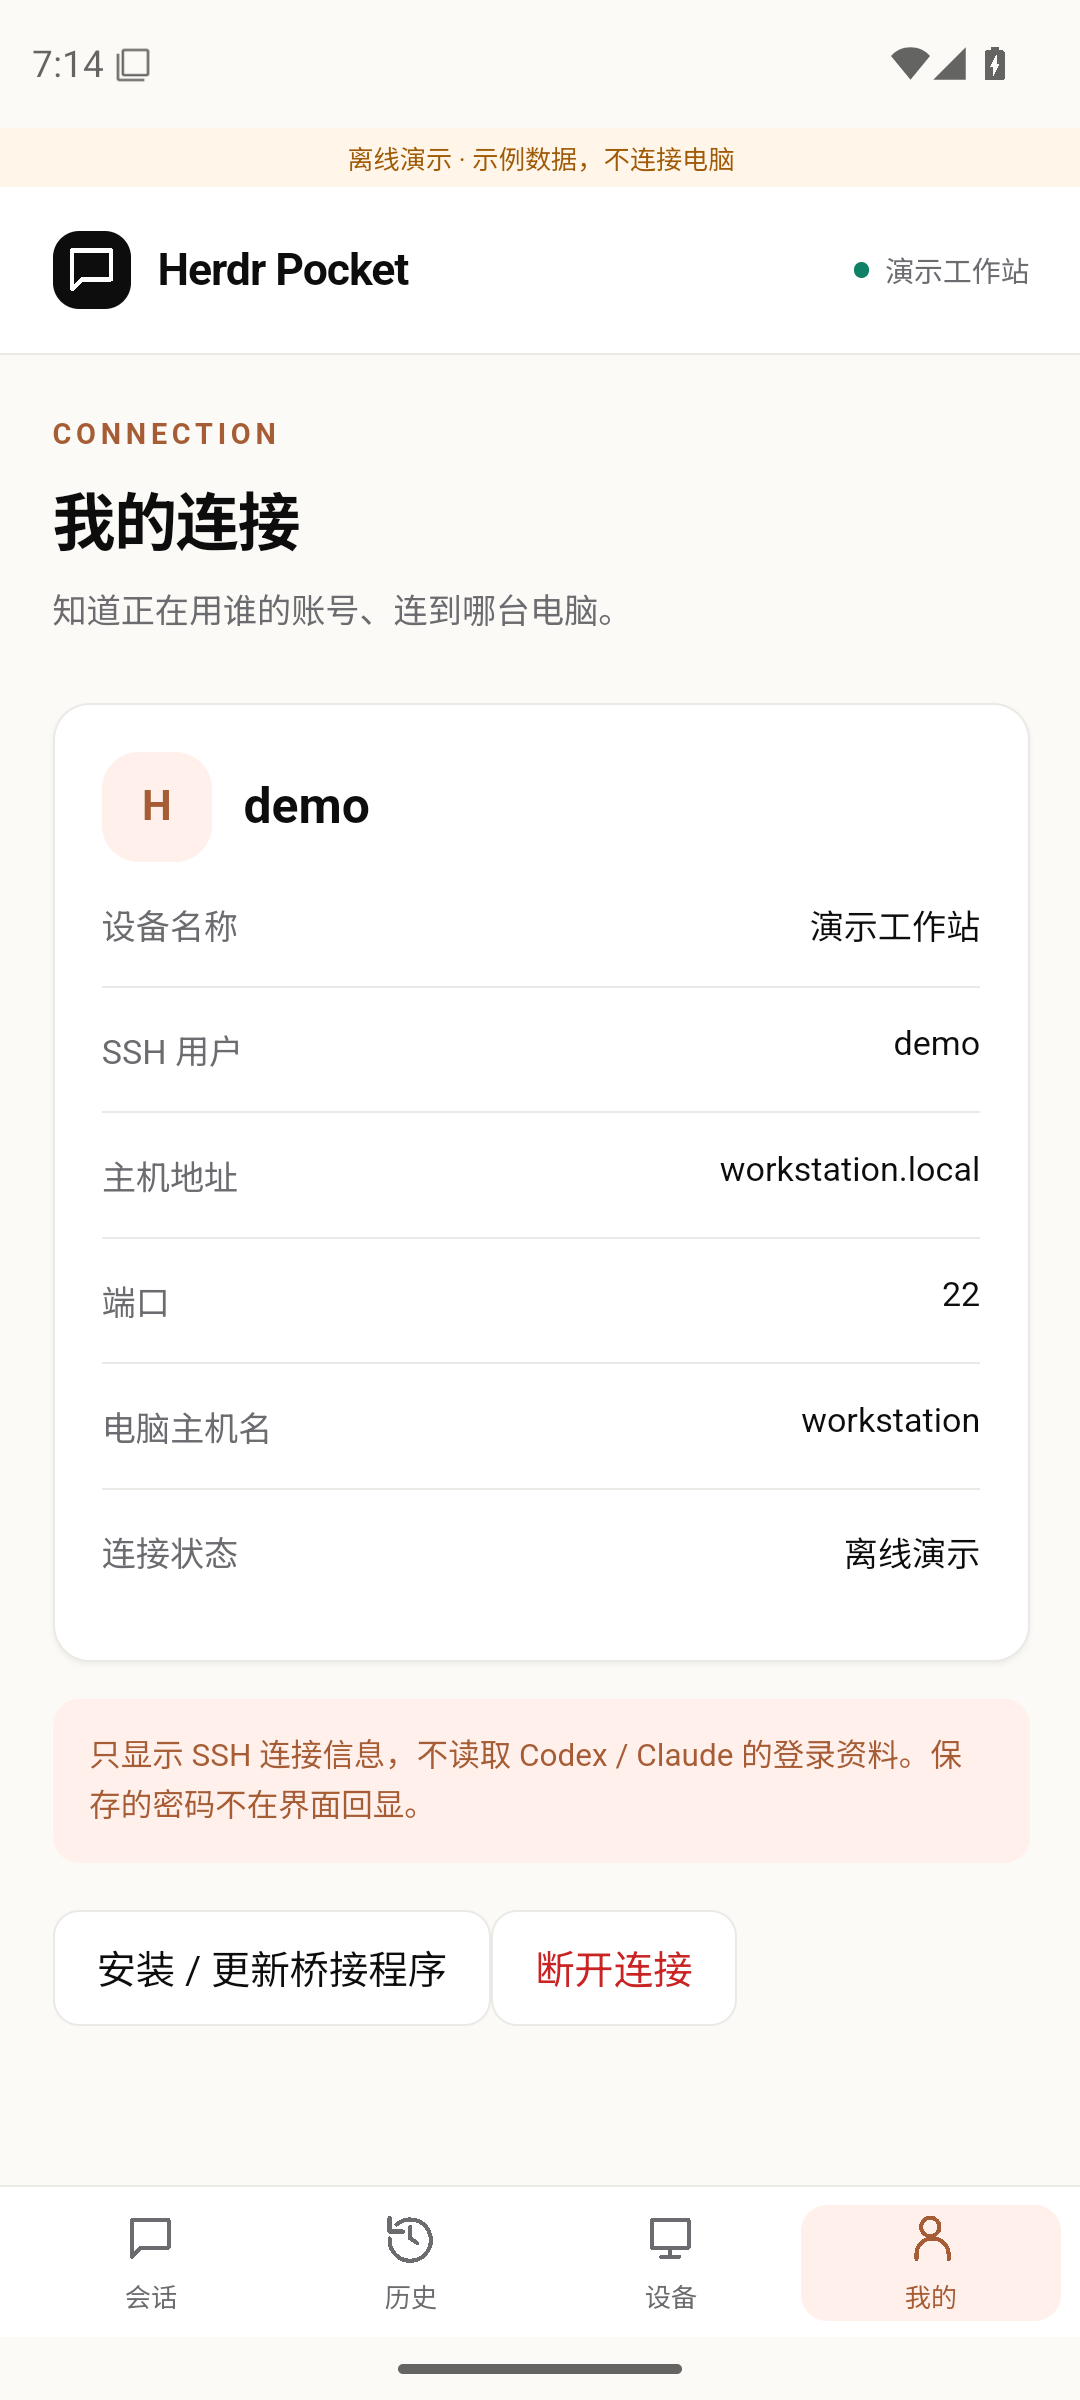
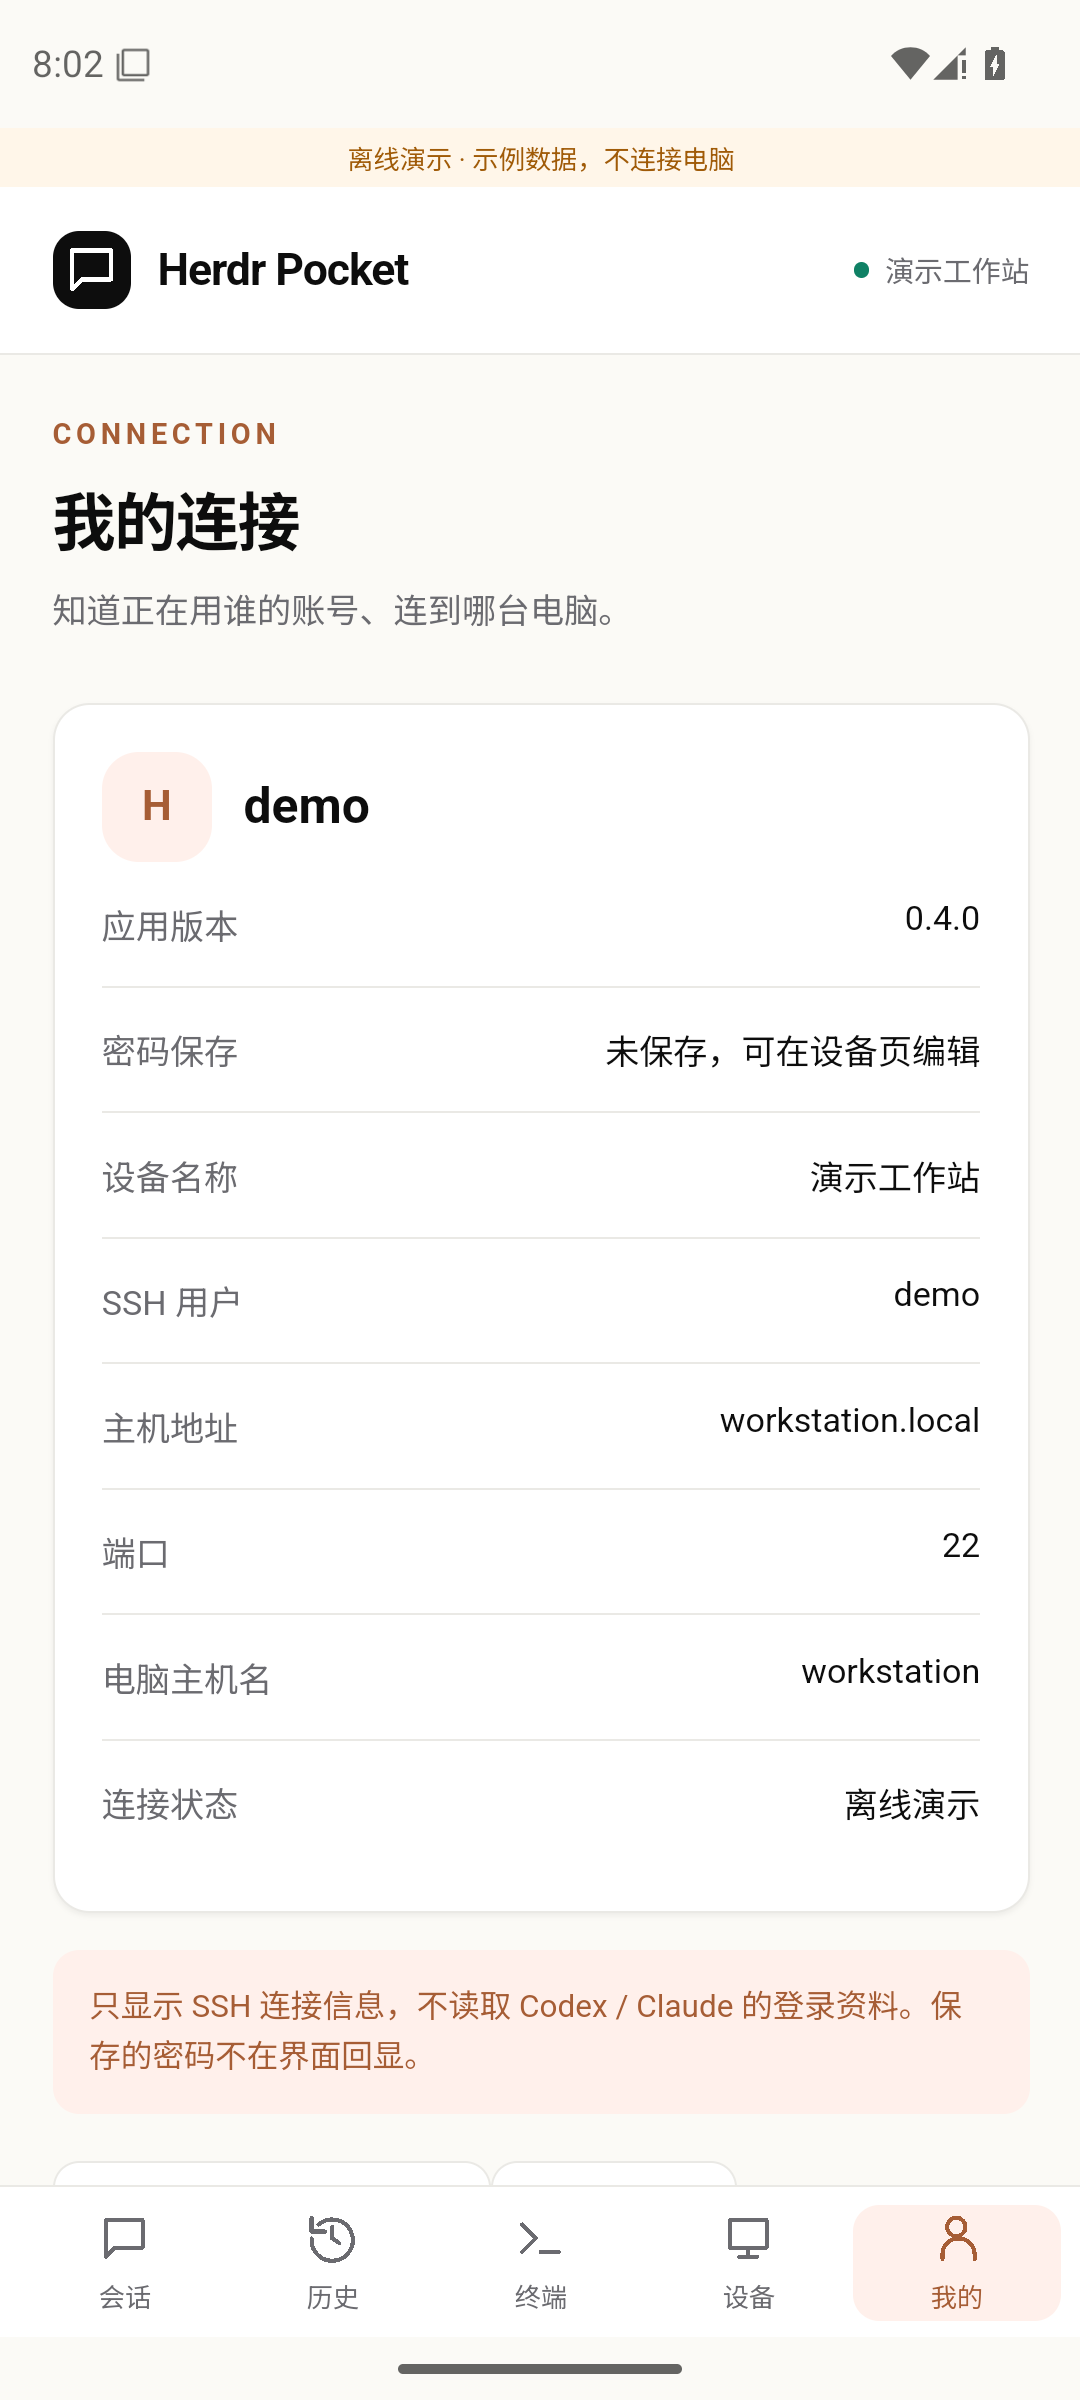
Record verified SSH, history, password and terminal release [skip ci]

diff --git a/docs/VALIDATION.md b/docs/VALIDATION.md
@@ -1,3 +1,23 @@
+# v0.4.0 terminal and missing-history fixes (2026-10-15)
+
+- Added a persistent SSH PTY view with bundled xterm.js, resizing, UTF-8 byte streaming, direct keyboard and explicit line submission. Returning to the list preserves the shell; disconnect/explicit close ends it. No reconnect or input replay.
+- Added ordinary Herdr panes across all workspaces with recent output snapshots, explicit target checks, text/run/key input and durable request receipts. The app does not close shared panes.
+- Fixed the actual login password dialog: remember-password checkbox is present there, and successful authentication saves the secret encrypted. Failed authentication does not replace the stored password. Version and save state are visible under My Connection.
+- Fixed history discovery beyond Herdr's optional session ID: exact native resume IDs, transcript paths/FDs, authorized ch-cli SSH route discovery; clear candidates when no unique binding exists. Fixed large internal tails, cross-window pagination and duplicate rollouts for the same thread. Read errors now remain visible with a retry action.
+- PASS: 40 Python bridge regressions. Browser checks cover remote history without a Herdr ID, remote picker context, the actual connection dialog's remember request, terminal views, stale-target/draft isolation, narrow/landscape layouts and reduced motion. Local Android debug and instrumentation builds pass.
+- Read-only current-workstation check: 10 live panes; 5 reliably auto-associated (1 Herdr ID, 2 explicit native resume IDs, 2 unique remote route threads). The other 5 expose readable candidates, not a claim that the first candidate belongs to the active pane. No real Agent or ordinary live terminal received test input.
+- Remote reads use existing SSH routing with strict host-key verification and only the authorized Codex/Claude history roots. No provider login files, remote installers or remote cache writes. The phone's SSH account view remains about the directly connected SSH user.
+- NOT VERIFIED: Physical handset, the user's Sakura Frp path, or input delivery to a real Herdr pane. Do not equate fixture SSH checks with those paths.
+
+Validated source: `d3d69ea`. [Successful full CI](https://github.com/HFO4AR/herdr-pocket/actions/runs/38701840215) and [signed preview-17](https://github.com/HFO4AR/herdr-pocket/releases/tag/preview-17).
+
+- PASS: Android lint/debug/release builds; emulator connected to isolated OpenSSH fixture with a pinned host key, installed the exact bundled bridge over SFTP, read synthetic history over SSH, and verified PTY UTF-8/cwd/resize/Ctrl+C/stale-target/duplicate-input behavior.
+- PASS: Real Android Keystore persistence, process restart, connection dialog remember checkbox, chat/history/tools/child navigation, rotation, SSH and Herdr terminal pages and demo input isolation. Native terminal screenshots inspected.
[1 lines of base64/hex data omitted]
+- During verification, UI automation initially observed a not-yet-ready Android accessibility tree; observations now retry against a fresh dump, never replaying input. A terminal CSS class collision was corrected after inspecting browser screenshots.
+
+---
+
 # v0.3.0 chat and Host-style validation (2026-10-15)
 
 Validated source: `9edfe3c`. [CI and automatic release](https://github.com/HFO4AR/herdr-pocket/actions/runs/38696764336).

diff --git a/README.md b/README.md
@@ -10,6 +10,8 @@ Not affiliated with Herdr or other similarly named mobile apps.
 
 <img src="docs/screenshots/agent.png" width="260" alt="Offline demo chat timeline" /> <img src="docs/screenshots/commands.png" width="260" alt="Offline demo command and output card" />
 
+<img src="docs/screenshots/ssh-terminal.png" width="260" alt="Offline SSH terminal demo" /> <img src="docs/screenshots/herdr-terminal.png" width="260" alt="Offline Herdr ordinary pane demo" />
+
 Screenshots use offline fixtures, never real conversations or credentials.
 
 视觉采用 Host App 默认亮色 / coral 设计规则：暖白底、珊瑚橙选中态、黑色主按钮，10 / 14 / 20 px 圆角与相同字体顺序。移动端保留至少 44 px 主要触控目标和聊天布局；当前不包含 Host 的深色主题选择器。
@@ -29,7 +31,7 @@ Screenshots use offline fixtures, never real conversations or credentials.
 - **历史浏览**：读取当前 SSH 用户 `~/.codex/sessions` 和 `~/.claude/projects` 下的 JSONL，搜索项目/标题/会话 ID，分页加载更早消息。即使 Agent 已退出，也可以只读浏览保留下来的文件。
 - **命令与结果**：工具调用和结果按 call ID 关联，独立「命令」视图及可展开卡片，显示具体命令、输出和记录中已有的退出状态。
 - **子 Agent**：根据实际父子元数据列出并进入独立子会话，支持返回父会话；不会把对子记录的操作发给父终端。
-- **在线会话**：通过 Herdr CLI 发送消息和经确认的按键。Herdr 提供明确会话 ID 时自动关联历史；缺少 ID 时可选择历史只读查看，或人工确认记录与当前窗格对应后在本次连接内关联；也保留实时「终端」视图。
+- **在线会话**：通过 Herdr CLI 发送消息和经确认的按键。通过可核实的 Herdr / 原生进程 / ch-cli 路由信息自动关联历史；缺少唯一标识时可选择候选只读查看，或人工确认对应关系后在本次连接内关联；也保留实时「终端」视图。
 - **我的连接**：SSH 用户、设备地址、端口、主机名和连接状态。不会读取服务商 auth/config 登录资料、邮箱或套餐。
 - **适配与动效**：小屏/横屏/宽屏布局，底部输入区随键盘调整，页面与弹层过渡、消息入场、按压反馈；尊重系统减少动画设置。
 

diff --git a/docs/PROTOCOL.md b/docs/PROTOCOL.md
@@ -31,7 +31,7 @@ Protocol stays v1; deployments are content-addressed, so the app always installs
 - Message kinds: `user`, `assistant`, `tool`, `result`; fields include stable byte-offset `id`, `timestamp`, `text`, `title`, `call_id`, `truncated`. Commands/results link by `call_id` when both are present in loaded pages; a result without its call is shown independently.
 - `account`: returns `ssh_user` and `hostname` only. Does not read provider accounts, tokens, email addresses or plans.
 
-History does not require a running Herdr session and never accepts a caller-selected filesystem path. A SHA-256 identifier resolves only through the approved transcript roots. A history record is not a terminal target. Only the existing live-agent operations can send input, with session/identity checks and mutation receipts unchanged.
+History does not require a running Herdr session and never accepts a caller-selected filesystem path. A SHA-256 identifier resolves only through the approved transcript roots. A history record is not a terminal target. Only explicit live-agent or ordinary-pane operations can send input, with session/identity checks and mutation receipts. Independent SSH shell input uses its own terminal identity and sequence.
 
 Codex adapters read session_meta and response_item records; Claude adapters read user/assistant message blocks and the documented subagents layout. Private reasoning/system/developer records are omitted. Related upstream references: [Codex rollout reducer](https://github.com/openai/codex/blob/main/codex-rs/rollout-trace/src/reducer/thread.rs), [Claude subagent documentation](https://code.claude.com/docs/en/sub-agents). Local fixture and installed-version verification is required when schemas change.
 
